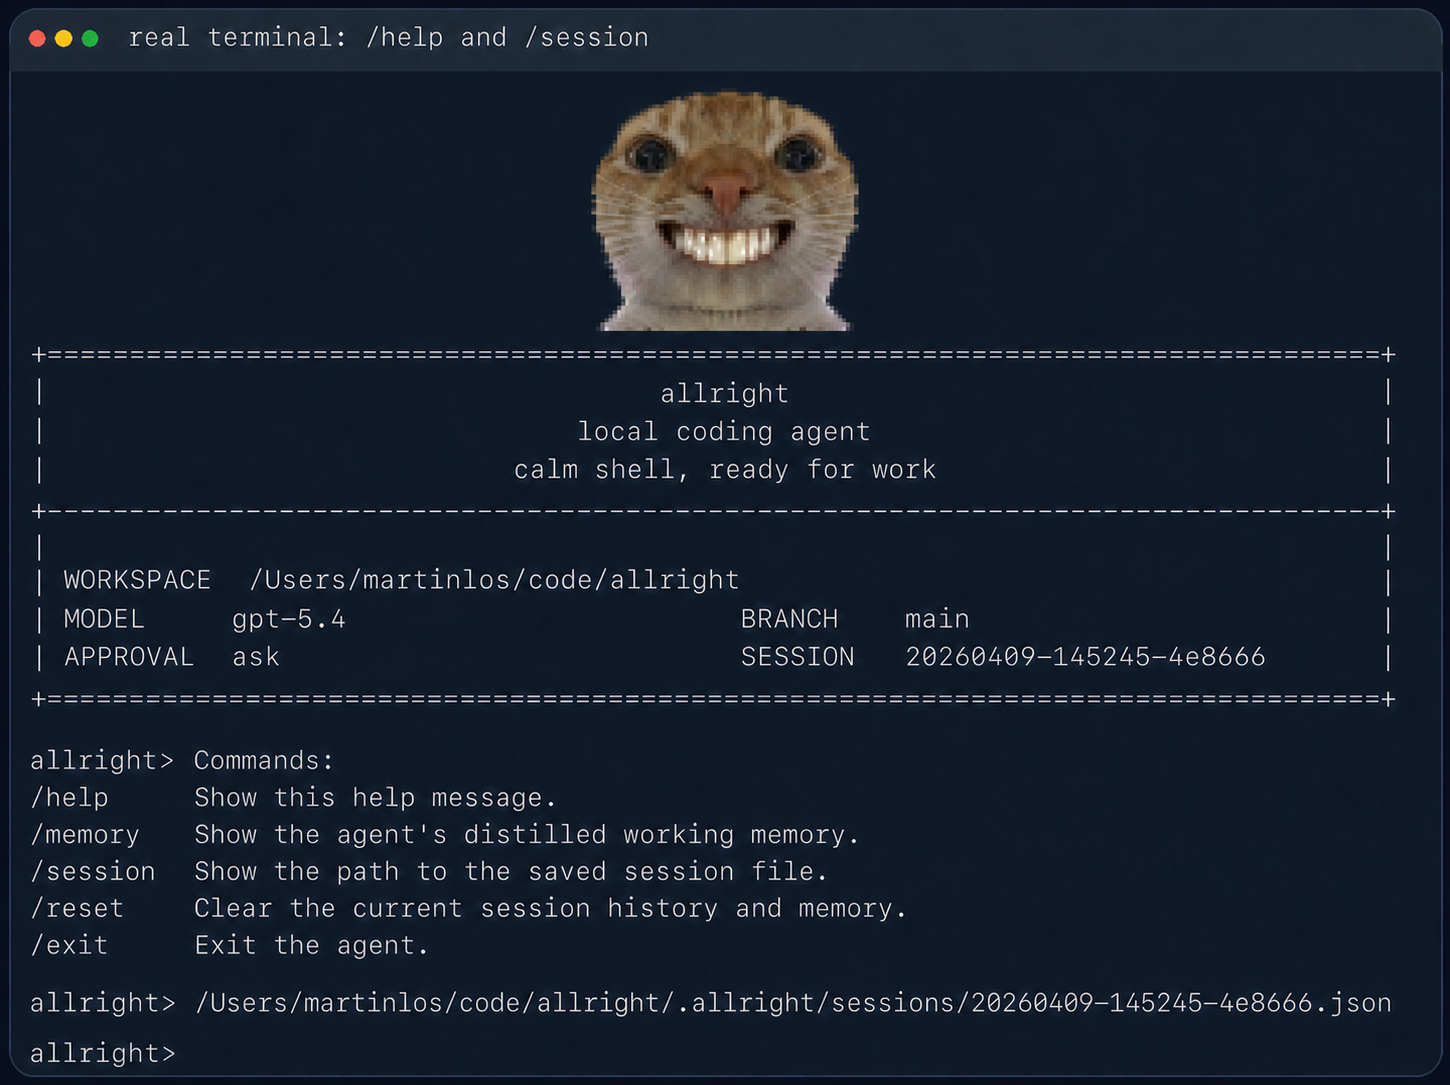
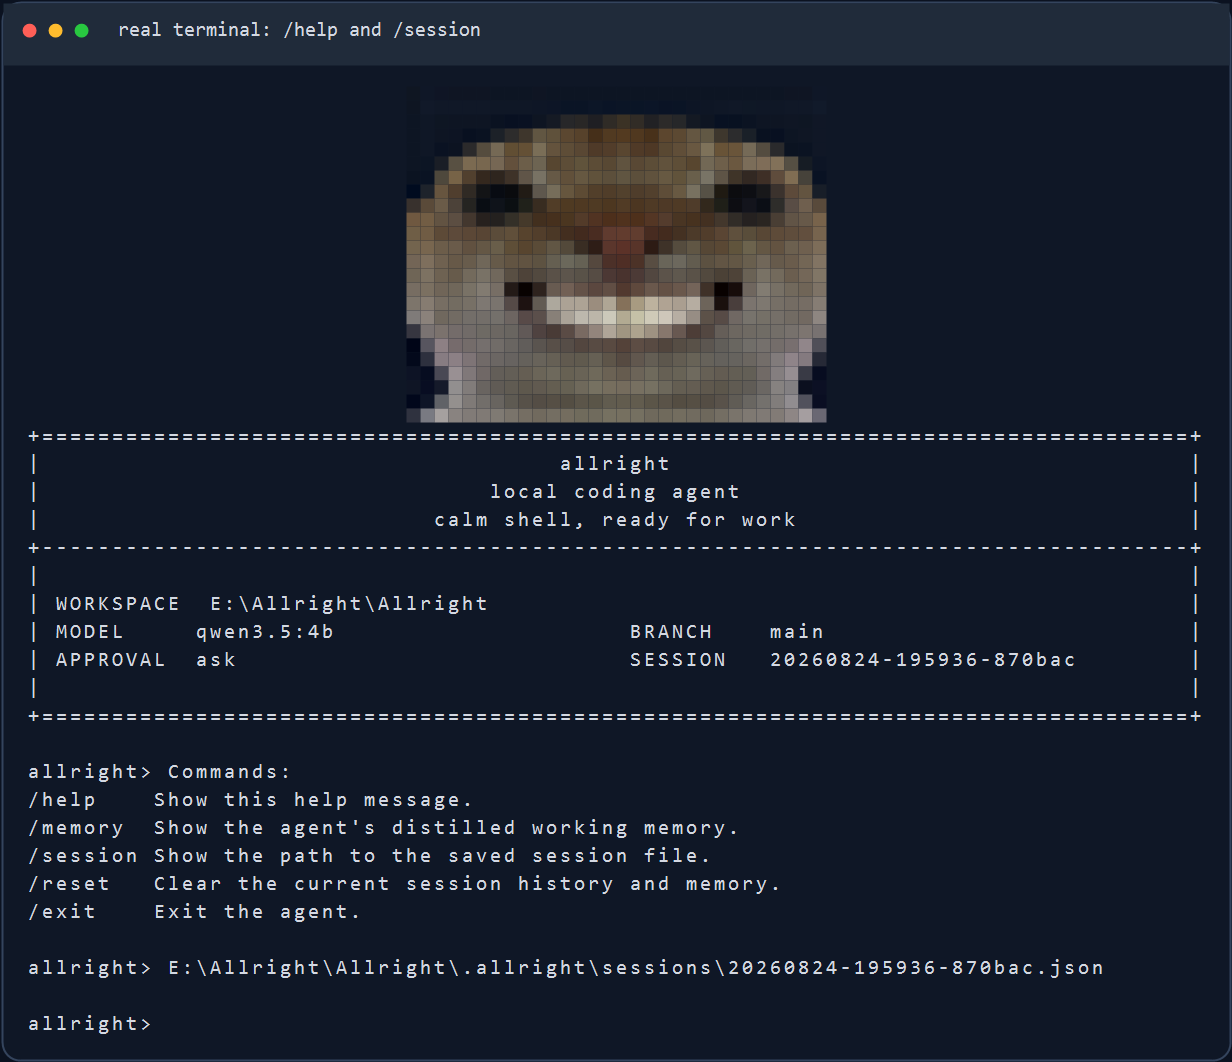
docs: capture real CLI screenshots

Changed region(s): [[0.0, 0.0, 1.0, 1.0]]

diff --git a/allright/mascot.py b/allright/mascot.py
@@ -4,6 +4,7 @@ from __future__ import annotations
 
 import base64
 import os
+import shutil
 import sys
 from pathlib import Path
 
@@ -92,6 +93,16 @@ def _render_iterm(png_data: bytes) -> str:
     return f"\x1b]1337;File=inline=1;width=30;height=12;preserveAspectRatio=1:{encoded}\x07"
 
 
+def _mascot_indent(env, width: int = 30) -> str:
+    try:
+        columns = int(env.get("COLUMNS", ""))
+    except (TypeError, ValueError):
+        columns = 0
+    if columns <= 0:
+        columns = shutil.get_terminal_size((80, 20)).columns
+    return " " * max(0, (columns - width) // 2)
+
+
 def render_mascot(state: str, stream=None, env=None) -> str:
     """Render a mascot using a native image protocol or packaged ANSI fallback."""
     if state not in MASCOT_STATES:
@@ -104,13 +115,15 @@ def render_mascot(state: str, stream=None, env=None) -> str:
     force = str(env.get("ALLRIGHT_FORCE_MASCOT", "")).lower() in {"1", "true", "on"}
     if not force and not getattr(stream, "isatty", lambda: False)():
         return ""
+    indent = _mascot_indent(env)
     if protocol == "kitty":
-        return _render_kitty(mascot_asset_path(state).read_bytes())
+        return indent + _render_kitty(mascot_asset_path(state).read_bytes())
     if protocol == "iterm":
-        return _render_iterm(mascot_asset_path(state).read_bytes())
+        return indent + _render_iterm(mascot_asset_path(state).read_bytes())
     if env.get("NO_COLOR") or str(env.get("TERM", "")).lower() == "dumb":
         return f"[allright mascot: {state}]"
-    return mascot_asset_path(state, ".ansi").read_text(encoding="utf-8").rstrip("\r\n")
+    ansi = mascot_asset_path(state, ".ansi").read_text(encoding="utf-8").rstrip("\r\n")
+    return "\n".join(indent + line for line in ansi.splitlines())
 
 
 def print_mascot(state: str, stream=None, env=None) -> None:

diff --git a/tests/test_mascot.py b/tests/test_mascot.py
@@ -39,10 +39,15 @@ def test_ansi_mascot_can_be_forced_for_snapshot_or_pipe_output():
     rendered = render_mascot(
         MASCOT_NORMAL,
         stream=StringIO(),
-        env={"ALLRIGHT_FORCE_MASCOT": "1", "ALLRIGHT_MASCOT_PROTOCOL": "ansi"},
+        env={
+            "ALLRIGHT_FORCE_MASCOT": "1",
+            "ALLRIGHT_MASCOT_PROTOCOL": "ansi",
+            "COLUMNS": "80",
+        },
     )
     assert "\x1b[38;2;" in rendered
     assert "▀" in rendered
+    assert all(line.startswith(" " * 25) for line in rendered.splitlines())
 
 
 def test_mascot_stays_quiet_for_non_tty_and_supports_opt_out():

diff --git a/README.md b/README.md
@@ -31,6 +31,8 @@ Allright 重点解决多轮任务中常见的 prompt 膨胀、重复读取文件
 
 ## 使用截图
 
+以下截图由本仓库代码实际运行后捕获，终端内容、工作区路径、状态信息和 session ID 均来自真实 CLI 输出。
+
 CLI 帮助信息：
 
 ![allright help](assets/screenshots/allright-help.png)
